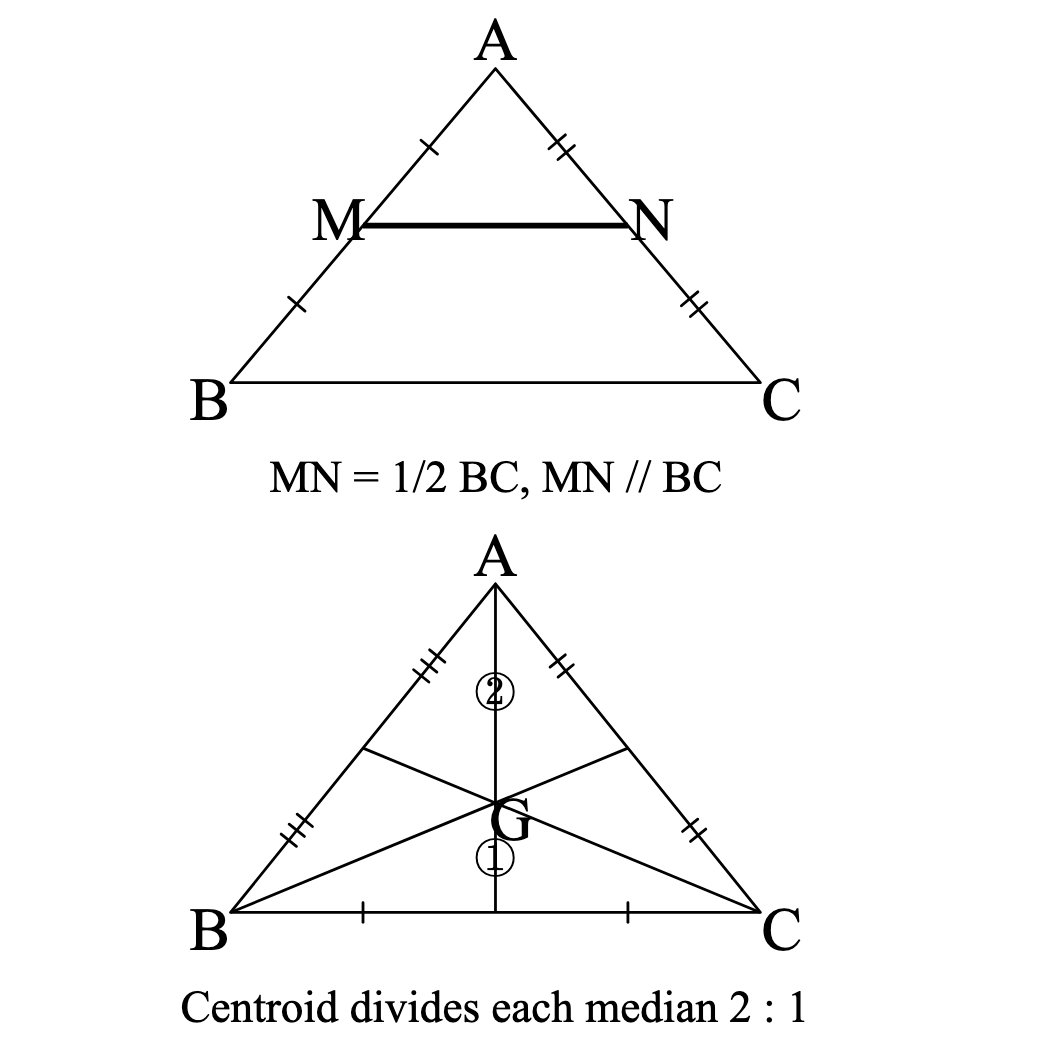
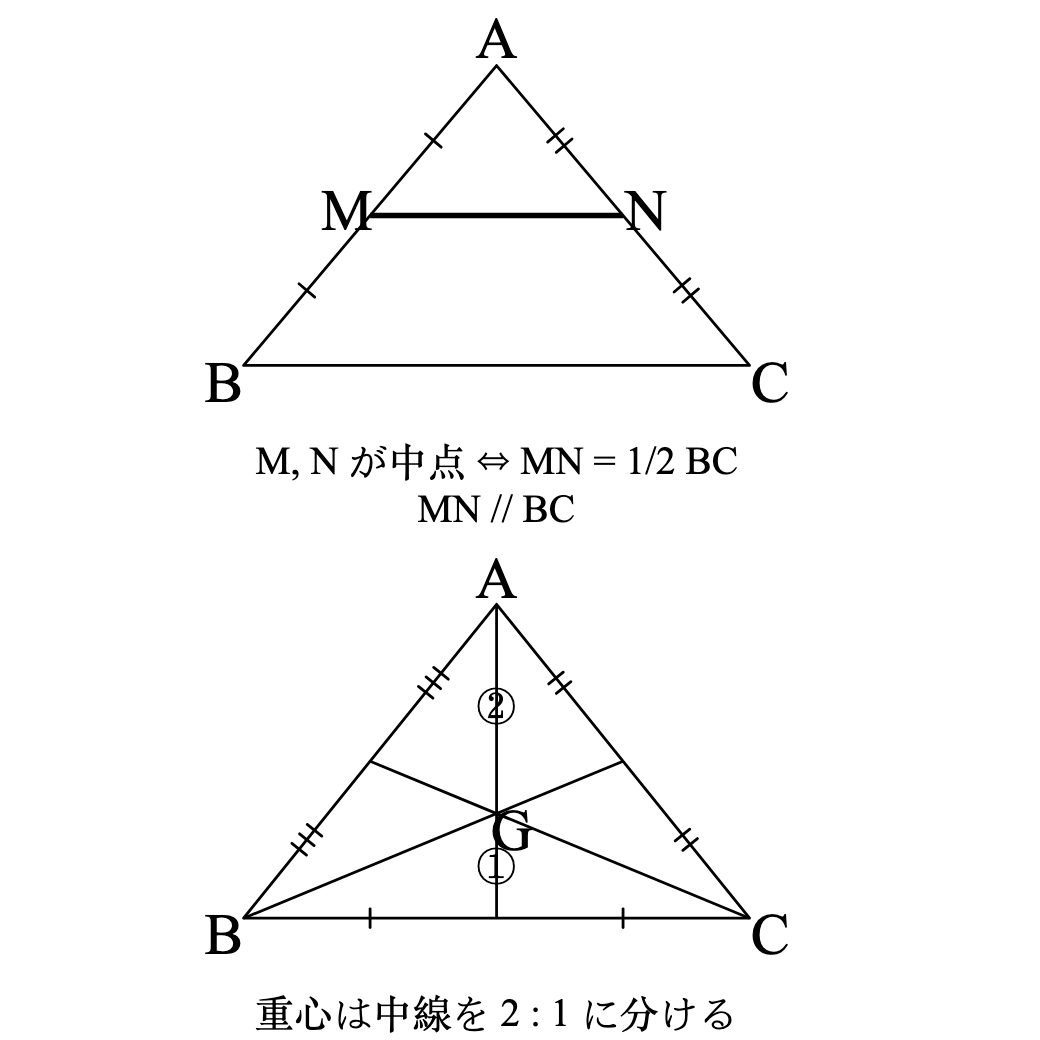
Update Japanese text in centroid figures and notes; enhance figure clarity

diff --git a/figures/28-note-midline-centroid/construction.js b/figures/28-note-midline-centroid/construction.js
@@ -358,7 +358,7 @@ function bulgeArc(p, q, h, s) {
 // them read as another worked example instead of a theorem reminder.
 
 var board = JXG.JSXGraph.initBoard(BOARD, {
-    boundingbox: [-0.65, 10.15, 7.65, -0.45],
+    boundingbox: [-0.65, 10.15, 7.65, -0.95],
     axis: false, grid: false, keepaspectratio: true,
     showNavigation: false, showCopyright: false
 });
@@ -375,7 +375,8 @@ function midlineNote(dx, dy) {
     at(C, 0.28, rad(320), 'C');
     at(M, 0.25, rad(170), 'M');
     at(N, 0.25, rad(10), 'N');
-    text(dx + 2.7, dy - 0.70, 'MN = 1/2 BC,  MN // BC', 'middle', 'top', 0.46);
+    text(dx + 2.7, dy - 0.70, 'M, N が中点  ⇔  MN = 1/2 BC', 'middle', 'top', 0.42);
+    text(dx + 2.7, dy - 1.28, 'MN // BC', 'middle', 'top', 0.42);
 }
 
 function centroidNote(dx, dy) {
@@ -393,8 +394,8 @@ function centroidNote(dx, dy) {
     at(B, 0.28, rad(220), 'B');
     at(C, 0.28, rad(320), 'C');
     at(G, 0.25, rad(310), 'G');
-    text(dx + 2.7, dy - 0.70, 'Centroid divides each median 2 : 1', 'middle', 'top', 0.46);
+    text(dx + 2.7, dy - 0.70, '重心は中線を 2 : 1 に分ける', 'middle', 'top', 0.42);
 }
 
 midlineNote(0.55, 6.25);
-centroidNote(0.55, 0.85);
+centroidNote(0.55, 0.35);

diff --git a/figures/28-note-midline-centroid/figure.js b/figures/28-note-midline-centroid/figure.js
@@ -4,7 +4,7 @@
 // them read as another worked example instead of a theorem reminder.
 
 var board = JXG.JSXGraph.initBoard(BOARD, {
-    boundingbox: [-0.65, 10.15, 7.65, -0.45],
+    boundingbox: [-0.65, 10.15, 7.65, -0.95],
     axis: false, grid: false, keepaspectratio: true,
     showNavigation: false, showCopyright: false
 });
@@ -21,7 +21,8 @@ function midlineNote(dx, dy) {
     at(C, 0.28, rad(320), 'C');
     at(M, 0.25, rad(170), 'M');
     at(N, 0.25, rad(10), 'N');
-    text(dx + 2.7, dy - 0.70, 'MN = 1/2 BC,  MN // BC', 'middle', 'top', 0.46);
+    text(dx + 2.7, dy - 0.70, 'M, N が中点  ⇔  MN = 1/2 BC', 'middle', 'top', 0.42);
+    text(dx + 2.7, dy - 1.28, 'MN // BC', 'middle', 'top', 0.42);
 }
 
 function centroidNote(dx, dy) {
@@ -39,8 +40,8 @@ function centroidNote(dx, dy) {
     at(B, 0.28, rad(220), 'B');
     at(C, 0.28, rad(320), 'C');
     at(G, 0.25, rad(310), 'G');
-    text(dx + 2.7, dy - 0.70, 'Centroid divides each median 2 : 1', 'middle', 'top', 0.46);
+    text(dx + 2.7, dy - 0.70, '重心は中線を 2 : 1 に分ける', 'middle', 'top', 0.42);
 }
 
 midlineNote(0.55, 6.25);
-centroidNote(0.55, 0.85);
+centroidNote(0.55, 0.35);

diff --git a/figures/27-s2-centroid/construction.js b/figures/27-s2-centroid/construction.js
@@ -380,7 +380,7 @@ dimension(B, G, '<i>y</i>', 0.34, -1);
 
 unit(2.10, 1.48, 2, 'circle', 0.50);
 unit(4.55, 2.78, 1, 'circle', 0.50);
-text(7.55, 4.60, 'M is midpoint', 'left', 'middle', 0.40);
+text(7.55, 4.60, 'M は AC の中点', 'left', 'middle', 0.40);
 text(7.55, 3.75, 'BG : GM = 2 : 1', 'left', 'middle', 0.40);
 text(7.55, 1.20, 'Ans.  <i>x</i> = 6,  <i>y</i> = 8', 'left', 'middle', 0.40);
 

diff --git a/figures/27-s2-centroid/figure.js b/figures/27-s2-centroid/figure.js
@@ -26,7 +26,7 @@ dimension(B, G, '<i>y</i>', 0.34, -1);
 
 unit(2.10, 1.48, 2, 'circle', 0.50);
 unit(4.55, 2.78, 1, 'circle', 0.50);
-text(7.55, 4.60, 'M is midpoint', 'left', 'middle', 0.40);
+text(7.55, 4.60, 'M は AC の中点', 'left', 'middle', 0.40);
 text(7.55, 3.75, 'BG : GM = 2 : 1', 'left', 'middle', 0.40);
 text(7.55, 1.20, 'Ans.  <i>x</i> = 6,  <i>y</i> = 8', 'left', 'middle', 0.40);
 

diff --git a/figures/NOTES.md b/figures/NOTES.md
@@ -307,6 +307,15 @@ Rule: reserve explicit space for captions and explanation text before drawing
 labels.  Captions belong below the corresponding mini-figure; theorem/result
 text belongs in a side column with smaller type than vertex labels.
 
+The 28-figure contact sheet exposed a second version of the same problem:
+English explanatory prose looked like app UI, not like a Japanese textbook
+figure.  Formula text and short Japanese theorem phrases matched the existing
+figures better.
+
+Rule: inside a rendered figure, prefer compact math/Japanese notation over
+English prose.  Put longer explanation in the surrounding solution text, not in
+the JSXGraph asset.
+
 ## 5. Margin theorem diagrams should stay sparse
 
 The right-side notes in the source are reminders, not worked examples.  The
@@ -316,6 +325,18 @@ values from the problem makes the note read as another solution figure.
 
 Rule: theorem notes use the fewest marks that state the theorem.  Problem
 values (`x`, `y`, `4`, `6`) do not belong in the theorem note.
+
+## 6. Compare coverage is only as good as the reference crops
+
+Running `render.py` over all 28 figures verifies every render and DOM audit, but
+`compare.py` only emits side-by-side sheets for folders whose matching crop
+exists in `figures/reference/`.  At the time 例題37 was added, that meant six
+compare sheets for figures 01–06; figures 07–28 had no reference crop and had to
+be checked by contact sheet and visual consistency.
+
+Rule: when adding a new page, add the crop first if the goal is "match the
+source".  Without the crop, the best available comparison is style consistency
+against old renders, not pixel-level source matching.
 `figures/reference/q1-square.png` and so on and the sheets appear with no other
 change.
 

diff --git a/figures/PROMPT-RULES.md b/figures/PROMPT-RULES.md
@@ -261,10 +261,21 @@ Make a reserved side column or vertical gap for them before tuning labels.
 Audit catches clipping, but only a visual pass catches text that is technically
 inside the board while overlapping another label.
 
-**H4. Margin theorem diagrams are sparse theorem reminders.** They carry only
+**H4. Use compact textbook notation inside figures.** English prose inside a
+rendered geometry asset reads like app UI, not like the source page.  Prefer
+short Japanese theorem phrases, formulas, and `Ans.` result lines; keep longer
+explanation in the surrounding solution text.
+
+**H5. Margin theorem diagrams are sparse theorem reminders.** They carry only
 the marks needed to state the theorem: midpoint ticks and `MN // BC` /
 `MN = 1/2 BC`, or medians through a centroid with one `2:1` cue.  They should
 not inherit the problem's unknowns, values, or full proof layer.
+
+**H6. A compare run does not cover figures without crops.** `render.py` can
+audit every figure, but `compare.py` only emits side-by-side images where
+`figures/reference/<name>.png` exists.  For new figures, add crops first; without
+them, use a contact sheet against older renders and report that the comparison
+is style-level rather than source-level.
 The cost of holding was one question: told the 30° is ∠DEC, the rest fell out
 (E on BD produced, ∠DCF = 15°, and triangle ACE equilateral) and F2 then
 confirmed it three ways. G is still unread, so the figure ships without it and
